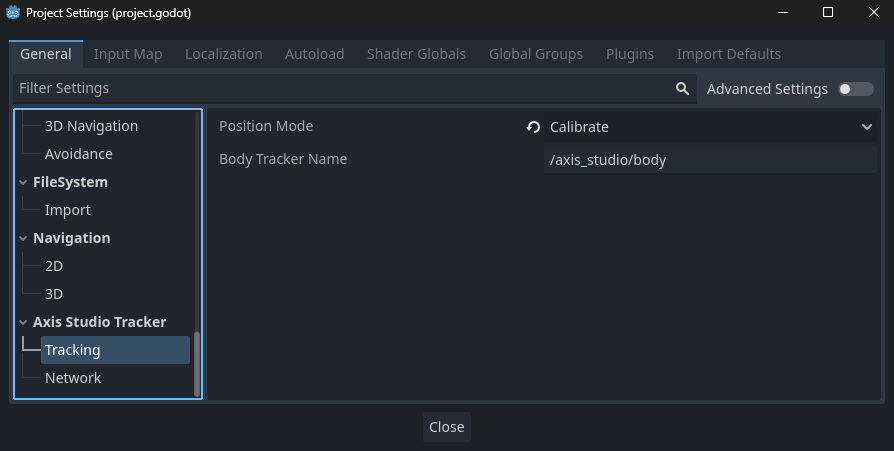
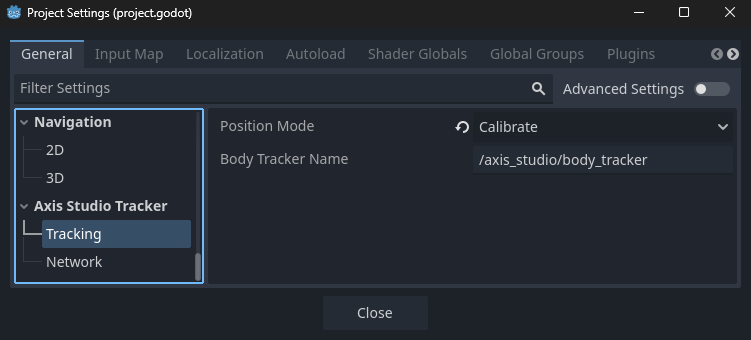
Update to handle SkeletonModifier3D / XRTracker changes (#1)
* Changes to work with SkeletonModifier3D and the XRTacker changes.
* Fix gdlint issues

diff --git a/README.md b/README.md
@@ -16,7 +16,9 @@ Official releases are tagged and can be found [here](https://github.com/Malcolmn
 The following branches are in active development:
 |  Branch   |  Description                  |  Godot version   |
 |-----------|-------------------------------|------------------|
-|  master   | Current development branch    |  Godot 4.3-dev4+ |
+|  master   | Current development branch    |  Godot 4.3-dev6+ |
+
+<sub>NOTE: This requires the [XR Trackers](https://github.com/godotengine/godot/pull/90645) PR which is in the Godot master branch, but no release has been made.</sub>
 
 ## Overview
 
@@ -50,6 +52,10 @@ The character model must be in Godot Humanoid format. This can be achieved in th
 ![Character Import](/docs/character_import.png)
 
 ### Body Driving
+
+The body is positioned using an [XRNode3D](https://docs.godotengine.org/en/latest/classes/class_xrnode3d.html) node configured to track the character body:
+
+![XRNode3D](/docs/xrnode3d.png)
 
 The body is driven using an [XRBodyModifier3D](https://docs.godotengine.org/en/latest/classes/class_xrbodymodifier3d.html) node configured to drive the skeleton of the character:
 

diff --git a/VERSIONS.md b/VERSIONS.md
@@ -1,3 +1,6 @@
+# 1.2.0
+- Updated for changes to XR Tracker names and hierarchy
+
 # 1.1.0
 - Improved root motion
 - Added scaling controls
